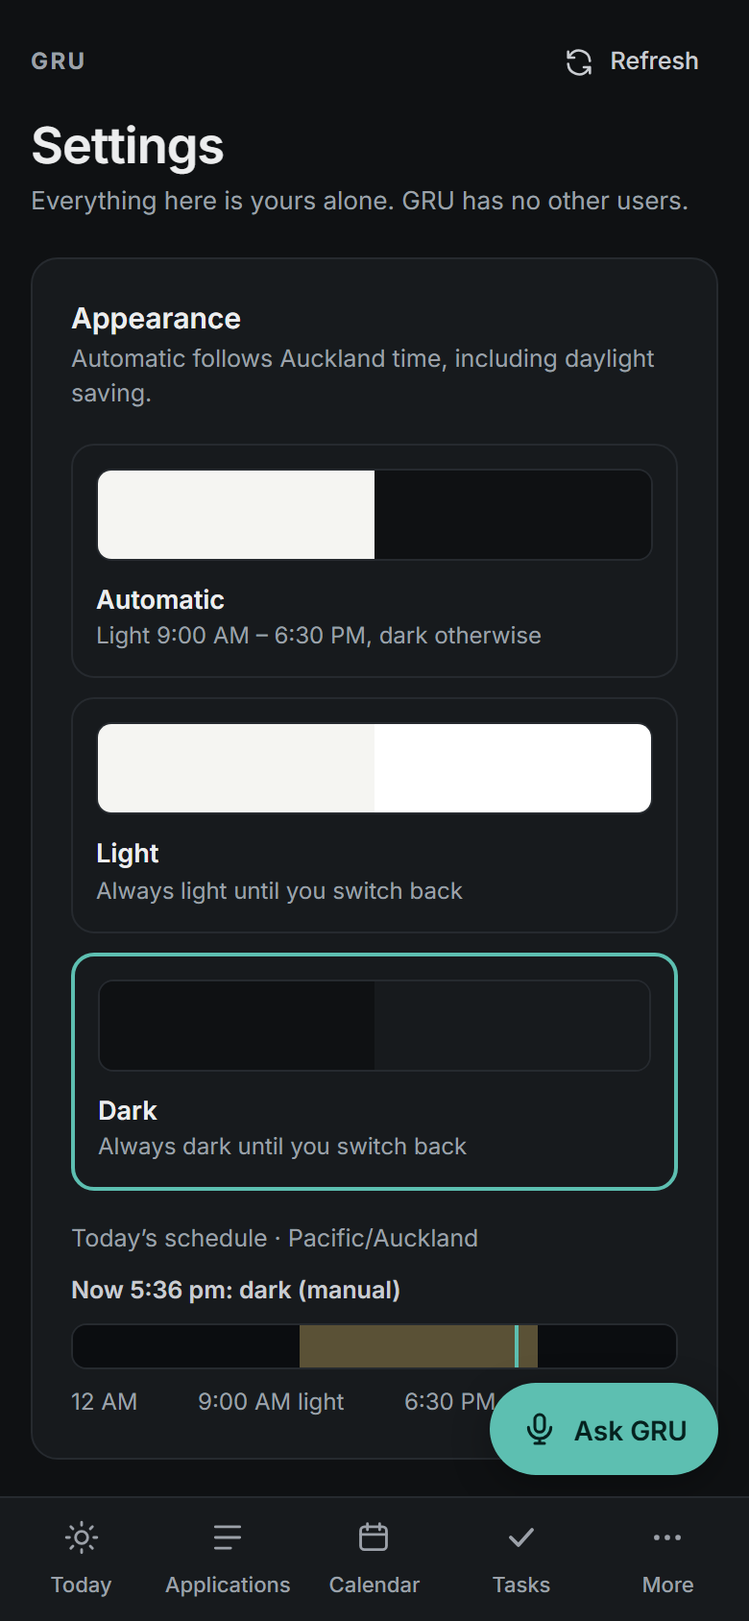
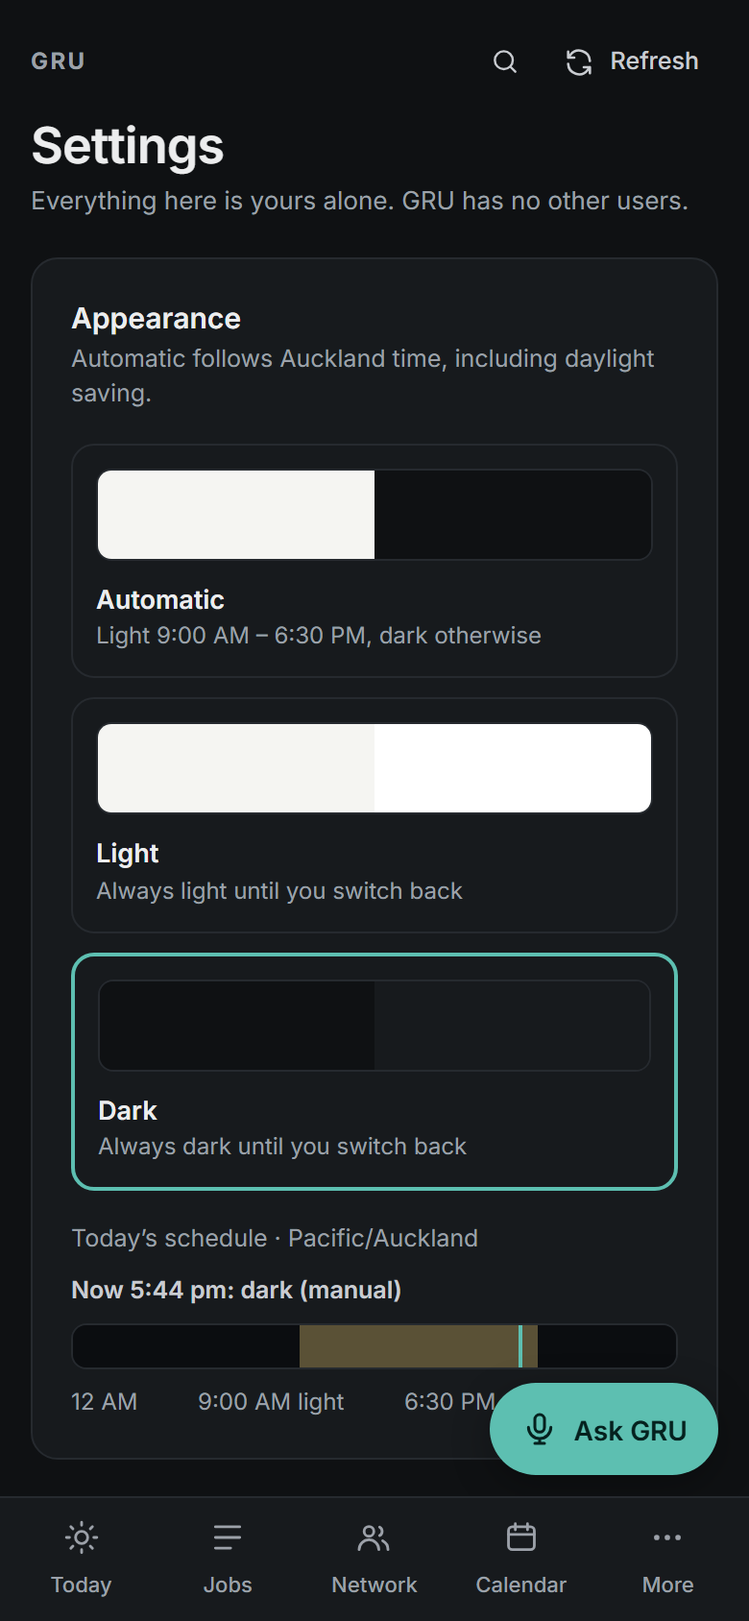
Revamp R5/R6: command palette, onboarding, lazy pages, motion, tailor bullet filter, privacy and plan docs

diff --git a/apps/web/src/components/CommandPalette.tsx b/apps/web/src/components/CommandPalette.tsx
@@ -1,0 +1,85 @@
+// Command palette (Ctrl/Cmd+K, or the Search button): jump to any page, job, application or person. Everything is matched on this
+// device from data already fetched; nothing is sent anywhere except the normal GRU API calls.
+import { useQuery } from "@tanstack/react-query";
+import { useEffect, useMemo, useRef, useState } from "react";
+import { useNavigate } from "react-router";
+import { api } from "../lib/api.ts";
+import { SearchIcon } from "./Icons.tsx";
+import { cx } from "./ui.tsx";
+
+interface Hit { key: string; label: string; hint: string; to: string }
+
+const PAGES: Hit[] = [
+  { key: "p-today", label: "Today", hint: "Page", to: "/" },
+  { key: "p-apply", label: "Apply today", hint: "Page", to: "/applications" },
+  { key: "p-other", label: "Other jobs", hint: "Page", to: "/applications?tab=other" },
+  { key: "p-track", label: "My applications", hint: "Page", to: "/applications?tab=tracked" },
+  { key: "p-board", label: "Pipeline board", hint: "Page", to: "/applications?tab=board" },
+  { key: "p-net", label: "Network", hint: "Page", to: "/network" },
+  { key: "p-ins", label: "Insights", hint: "Page", to: "/insights" },
+  { key: "p-inbox", label: "Inbox", hint: "Page", to: "/inbox" },
+  { key: "p-review", label: "Review", hint: "Page", to: "/review" },
+  { key: "p-cal", label: "Calendar", hint: "Page", to: "/calendar" },
+  { key: "p-tasks", label: "Tasks", hint: "Page", to: "/agenda" },
+  { key: "p-notes", label: "Notes", hint: "Page", to: "/notes" },
+  { key: "p-rec", label: "Recruiters", hint: "Page", to: "/people" },
+  { key: "p-set", label: "Settings", hint: "Page", to: "/settings" },
+];
+
+export function CommandPalette({ open, onClose }: { open: boolean; onClose: () => void }) {
+  const nav = useNavigate();
+  const [text, setText] = useState("");
+  const [active, setActive] = useState(0);
+  const input = useRef<HTMLInputElement>(null);
+  const jobs = useQuery({ queryKey: ["jobs", "all", ""], queryFn: () => api.jobs("all"), enabled: open, staleTime: 60_000 });
+  const people = useQuery({ queryKey: ["net", "people", "all"], queryFn: () => api.netPeople(), enabled: open, staleTime: 60_000 });
+  const apps = useQuery({ queryKey: ["applications", "palette"], queryFn: () => api.listApplications({ status: "all" }), enabled: open, staleTime: 60_000 });
+
+  useEffect(() => { if (open) { setText(""); setActive(0); setTimeout(() => input.current?.focus(), 0); } }, [open]);
+
+  const hits = useMemo<Hit[]>(() => {
+    const q = text.trim().toLowerCase();
+    const all: Hit[] = [
+      ...PAGES,
+      ...(apps.data?.items ?? []).map((a) => ({ key: `a${a.id}`, label: `${a.company}${a.role ? ` · ${a.role}` : ""}`, hint: "Application", to: `/applications/${a.id}?status=all` })),
+      ...(jobs.data?.items ?? []).map((j) => ({ key: `j${j.id}`, label: `${j.title}${j.company ? ` · ${j.company}` : ""}`, hint: "Job", to: `/jobs/${j.id}` })),
+      ...(people.data?.items ?? []).map((p) => ({ key: `n${p.id}`, label: `${p.name}${p.company ? ` · ${p.company}` : ""}`, hint: "Person", to: `/network?person=${p.id}` })),
+    ];
+    if (!q) return PAGES;
+    const words = q.split(/\s+/);
+    return all.filter((h) => words.every((w) => h.label.toLowerCase().includes(w))).slice(0, 12);
+  }, [text, apps.data, jobs.data, people.data]);
+
+  useEffect(() => { setActive(0); }, [text]);
+  if (!open) return null;
+  const go = (h: Hit | undefined) => { if (h) { onClose(); nav(h.to); } };
+
+  return (
+    <div className="fixed inset-0 z-[60] flex items-start justify-center bg-[var(--scrim)] px-4 pt-[12dvh]" onMouseDown={(e) => { if (e.target === e.currentTarget) onClose(); }}>
+      <div role="dialog" aria-modal="true" aria-label="Search GRU" className="w-full max-w-lg overflow-hidden rounded-2xl border border-line bg-surface shadow-[0_20px_50px_rgba(0,0,0,.25)]"
+        onKeyDown={(e) => {
+          if (e.key === "Escape") onClose();
+          else if (e.key === "ArrowDown") { e.preventDefault(); setActive((i) => Math.min(hits.length - 1, i + 1)); }
+          else if (e.key === "ArrowUp") { e.preventDefault(); setActive((i) => Math.max(0, i - 1)); }
+          else if (e.key === "Enter") go(hits[active]);
+        }}>
+        <label className="relative block border-b border-line">
+          <span className="sr-only">Search pages, jobs, applications and people</span>
+          <span className="pointer-events-none absolute top-3.5 left-4 text-muted"><SearchIcon size={16} /></span>
+          <input ref={input} value={text} onChange={(e) => setText(e.target.value)} placeholder="Search pages, jobs, applications, people" role="combobox" aria-expanded="true" aria-controls="palette-list" aria-activedescendant={hits[active] ? `pal-${hits[active]?.key}` : undefined}
+            className="h-12 w-full bg-transparent pr-4 pl-11 text-[15px] text-ink placeholder:text-muted focus:outline-none" />
+        </label>
+        <ul id="palette-list" role="listbox" className="m-0 max-h-[50dvh] list-none overflow-y-auto p-1.5">
+          {hits.length === 0 ? <li className="px-3 py-4 text-center text-[13px] text-muted">Nothing found</li> : hits.map((h, i) => (
+            <li key={h.key} id={`pal-${h.key}`} role="option" aria-selected={i === active}>
+              <button type="button" tabIndex={-1} onMouseEnter={() => setActive(i)} onClick={() => go(h)} className={cx("flex w-full cursor-pointer items-center justify-between gap-3 rounded-lg px-3 py-2 text-left text-[14px]", i === active ? "bg-accent-soft text-ink" : "text-ink-2")}>
+                <span className="truncate">{h.label}</span><span className="flex-none text-[11.5px] text-muted">{h.hint}</span>
+              </button>
+            </li>
+          ))}
+        </ul>
+        <p className="m-0 border-t border-line px-4 py-2 text-[11.5px] text-muted">↑ ↓ to move · Enter to open · Esc to close</p>
+      </div>
+    </div>
+  );
+}

diff --git a/apps/web/src/components/AppShell.tsx b/apps/web/src/components/AppShell.tsx
@@ -1,17 +1,18 @@
 // Desktop (≥1024 px): 248 px sidebar. Mobile: bottom tab bar with safe-area padding.
 // Only sections that have shipped appear (Jobs, Interviews, Review, Agenda, Notes join in later phases).
 import { useQuery } from "@tanstack/react-query";
-import type { ReactNode } from "react";
-import { NavLink, Outlet } from "react-router";
+import { useEffect, useState, type ReactNode } from "react";
+import { NavLink, Outlet, useLocation } from "react-router";
 import { api } from "../lib/api.ts";
-import { CalendarIcon, CheckIcon, InboxIcon, ListIcon, MoreIcon, NoteIcon, PeopleIcon, SettingsIcon, SunIcon, WarningIcon } from "./Icons.tsx";
+import { CommandPalette } from "./CommandPalette.tsx";
+import { CalendarIcon, CheckIcon, InboxIcon, ListIcon, MoreIcon, NoteIcon, PeopleIcon, SearchIcon, SettingsIcon, SunIcon, WarningIcon } from "./Icons.tsx";
 import { PullToRefresh, RefreshButton, useRefresh } from "./Refresh.tsx";
 import { VoiceAssistant } from "./VoiceAssistant.tsx";
 import { Banner, cx } from "./ui.tsx";
 
 const NAV = [
   { to: "/", label: "Today", icon: SunIcon, end: true },
-  { to: "/applications", label: "Applications", icon: ListIcon, end: false },
+  { to: "/applications", label: "Jobs", icon: ListIcon, end: false },
   { to: "/calendar", label: "Calendar", icon: CalendarIcon, end: false },
   { to: "/agenda", label: "Tasks", icon: CheckIcon, end: false },
   { to: "/notes", label: "Notes", icon: NoteIcon, end: false },
@@ -22,7 +23,7 @@ const NAV = [
   { to: "/review", label: "Review", icon: WarningIcon, end: false },
 ] as const;
 
-const TABS = (["/", "/applications", "/calendar", "/agenda"] as const).map((to) => NAV.find((n) => n.to === to)!); // Today, Applications, Calendar, Tasks
+const TABS = (["/", "/applications", "/network", "/calendar"] as const).map((to) => NAV.find((n) => n.to === to)!); // Today, Applications, Calendar, Tasks
 
 function SideLink({ to, end, icon: Icon, children }: { to: string; end: boolean; icon: typeof SunIcon; children: ReactNode }) {
   return (
@@ -42,7 +43,7 @@ function SideLink({ to, end, icon: Icon, children }: { to: string; end: boolean;
   );
 }
 
-function Sidebar({ refresh, busy }: { refresh: () => void; busy: boolean }) {
+function Sidebar({ refresh, busy, onSearch }: { refresh: () => void; busy: boolean; onSearch: () => void }) {
   return (
     <nav aria-label="Primary" className="hidden w-[248px] flex-none flex-col gap-5 border-r border-line bg-side px-3.5 py-5 lg:flex">
       <div className="flex items-center gap-2.5 px-2">
@@ -58,6 +59,9 @@ function Sidebar({ refresh, busy }: { refresh: () => void; busy: boolean }) {
         ))}
       </div>
       <div className="mt-auto flex flex-col gap-0.5">
+        <button type="button" onClick={onSearch} className="flex h-9 cursor-pointer items-center gap-2.5 rounded-[9px] px-2.5 text-left font-medium text-ink-2 hover:bg-surface/60 hover:text-ink">
+          <SearchIcon size={17} />Search<kbd className="ml-auto rounded border border-line px-1.5 text-[11px] text-muted">Ctrl K</kbd>
+        </button>
         <RefreshButton onClick={refresh} busy={busy} className="h-9 px-2.5 font-medium text-ink-2 hover:bg-surface/60 hover:text-ink" />
         <SideLink to="/settings" end={false} icon={SettingsIcon}>Settings</SideLink>
       </div>
@@ -95,24 +99,35 @@ function TabBar() {
 export function AppShell() {
   const health = useQuery({ queryKey: ["health"], queryFn: api.health, staleTime: 60_000 });
   const { refresh, busy } = useRefresh();
+  const [searching, setSearching] = useState(false);
+  const section = useLocation().pathname.split("/")[1] ?? "";
+  useEffect(() => {
+    const onKey = (e: KeyboardEvent) => { if ((e.ctrlKey || e.metaKey) && e.key.toLowerCase() === "k") { e.preventDefault(); setSearching((s) => !s); } };
+    window.addEventListener("keydown", onKey);
+    return () => window.removeEventListener("keydown", onKey);
+  }, []);
   return (
     <div className="flex min-h-dvh bg-bg text-ink">
       <a href="#main" className="sr-only focus:not-sr-only focus:fixed focus:top-2 focus:left-2 focus:z-50 focus:rounded-lg focus:bg-surface focus:px-3 focus:py-2">
         Skip to content
       </a>
-      <Sidebar refresh={() => void refresh()} busy={busy} />
+      <Sidebar refresh={() => void refresh()} busy={busy} onSearch={() => setSearching(true)} />
+      <CommandPalette open={searching} onClose={() => setSearching(false)} />
       <VoiceAssistant />
       <PullToRefresh onRefresh={() => void refresh()} busy={busy} />
       <main id="main" className="min-w-0 flex-1 px-4 pt-safe pb-28 sm:px-6 lg:px-9 lg:pt-7 lg:pb-12">
         <div className="mx-auto flex max-w-[1140px] flex-col gap-5">
           <div className="-mb-2 flex items-center justify-between lg:hidden">
             <span className="text-[12px] font-bold tracking-[0.1em] text-muted">GRU</span>
-            <RefreshButton onClick={() => void refresh()} busy={busy} className="h-8 px-2.5 text-[12.5px] font-medium text-ink-2 hover:bg-sunken" />
+            <span className="flex items-center gap-1">
+              <button type="button" aria-label="Search" onClick={() => setSearching(true)} className="grid size-8 cursor-pointer place-items-center rounded-lg text-ink-2 hover:bg-sunken"><SearchIcon size={16} /></button>
+              <RefreshButton onClick={() => void refresh()} busy={busy} className="h-8 px-2.5 text-[12.5px] font-medium text-ink-2 hover:bg-sunken" />
+            </span>
           </div>
           {health.data?.paused && (
             <Banner tone="amber" title="GRU is paused.">Syncing and reminders are stopped. Resume it in Settings.</Banner>
           )}
-          <Outlet />
+          <div key={section} className="page-in flex flex-col gap-5"><Outlet /></div>
         </div>
       </main>
       <TabBar />

diff --git a/apps/web/src/main.tsx b/apps/web/src/main.tsx
@@ -10,17 +10,7 @@ import { ToastProvider } from "./components/Toast.tsx";
 import { ApiError } from "./lib/api.ts";
 import { ApplicationsPage } from "./pages/Applications.tsx";
 import { LockedPage, NotFoundPage } from "./pages/Locked.tsx";
-import { AgendaPage } from "./pages/Agenda.tsx";
-import { InboxPage } from "./pages/Inbox.tsx";
-import { InsightsPage } from "./pages/Insights.tsx";
-import { NetworkPage } from "./pages/Network.tsx";
-import { JobWorkspacePage } from "./pages/JobWorkspace.tsx";
-import { CalendarPage } from "./pages/Calendar.tsx";
 import { MorePage } from "./pages/More.tsx";
-import { NotesPage } from "./pages/Notes.tsx";
-import { PeoplePage } from "./pages/People.tsx";
-import { ReviewPage } from "./pages/Review.tsx";
-import { SettingsPage } from "./pages/Settings.tsx";
 import { TodayPage } from "./pages/Today.tsx";
 
 const queryClient = new QueryClient({
@@ -68,18 +58,18 @@ const router = createBrowserRouter([
       { index: true, element: <TodayPage /> },
       { path: "applications", element: <ApplicationsPage /> },
       { path: "applications/:id", element: <ApplicationsPage /> },
-      { path: "review", element: <ReviewPage /> },
+      { path: "review", lazy: async () => ({ Component: (await import("./pages/Review.tsx")).ReviewPage }) },
       { path: "jobs", element: <JobsRedirect /> },
-      { path: "jobs/:id", element: <JobWorkspacePage /> },
-      { path: "inbox", element: <InboxPage /> },
-      { path: "network", element: <NetworkPage /> },
-      { path: "insights", element: <InsightsPage /> },
-      { path: "agenda", element: <AgendaPage /> },
-      { path: "calendar", element: <CalendarPage /> },
-      { path: "notes", element: <NotesPage /> },
-      { path: "people", element: <PeoplePage /> },
+      { path: "jobs/:id", lazy: async () => ({ Component: (await import("./pages/JobWorkspace.tsx")).JobWorkspacePage }) },
+      { path: "inbox", lazy: async () => ({ Component: (await import("./pages/Inbox.tsx")).InboxPage }) },
+      { path: "network", lazy: async () => ({ Component: (await import("./pages/Network.tsx")).NetworkPage }) },
+      { path: "insights", lazy: async () => ({ Component: (await import("./pages/Insights.tsx")).InsightsPage }) },
+      { path: "agenda", lazy: async () => ({ Component: (await import("./pages/Agenda.tsx")).AgendaPage }) },
+      { path: "calendar", lazy: async () => ({ Component: (await import("./pages/Calendar.tsx")).CalendarPage }) },
+      { path: "notes", lazy: async () => ({ Component: (await import("./pages/Notes.tsx")).NotesPage }) },
+      { path: "people", lazy: async () => ({ Component: (await import("./pages/People.tsx")).PeoplePage }) },
       { path: "more", element: <MorePage /> },
-      { path: "settings", element: <SettingsPage /> },
+      { path: "settings", lazy: async () => ({ Component: (await import("./pages/Settings.tsx")).SettingsPage }) },
       { path: "*", element: <NotFoundPage /> },
     ],
   },

diff --git a/apps/web/src/components/OnboardingCard.tsx b/apps/web/src/components/OnboardingCard.tsx
@@ -1,0 +1,44 @@
+// A short getting-started checklist on Today. Every step is computed from what already exists, so it ticks itself off and goes away.
+import { useQuery } from "@tanstack/react-query";
+import { useState } from "react";
+import { Link } from "react-router";
+import { api } from "../lib/api.ts";
+import { Card, SectionTitle } from "./ui.tsx";
+
+const KEY = "gru.onboarding.dismissed";
+const read = (): boolean => { try { return localStorage.getItem(KEY) === "1"; } catch { return false; } };
+
+export function OnboardingCard() {
+  const [hidden, setHidden] = useState(read);
+  const accounts = useQuery({ queryKey: ["mailAccounts"], queryFn: api.mailAccounts });
+  const resumes = useQuery({ queryKey: ["resumes"], queryFn: api.resumes });
+  const prefs = useQuery({ queryKey: ["prefs"], queryFn: api.prefs });
+  const net = useQuery({ queryKey: ["net", "overview"], queryFn: api.netOverview, staleTime: 60_000 });
+  const summary = useQuery({ queryKey: ["summary"], queryFn: api.summary });
+  if (hidden || [accounts, resumes, prefs, net, summary].some((q) => q.isPending)) return null;
+
+  const steps = [
+    { done: (accounts.data?.accounts ?? []).some((a) => a.status === "active"), text: "Connect Gmail so GRU can read your job emails", to: "/settings" },
+    { done: (resumes.data?.items.length ?? 0) > 0, text: "Add your resume to score jobs and tailor your CV", to: "/settings" },
+    { done: (prefs.data?.roles.length ?? 0) > 0, text: "Save the roles you’re after for one-tap job searches", to: "/settings" },
+    { done: (net.data?.companies.total ?? 0) >= 5, text: "Add 5 companies you’d love to work at", to: "/network" },
+    { done: (net.data?.people.total ?? 0) >= 1, text: "Add one person to learn from and draft a note to them", to: "/network" },
+    { done: Object.values(summary.data?.counts ?? {}).some((n) => (n ?? 0) > 0), text: "Track your first application", to: "/applications?tab=tracked" },
+  ];
+  const left = steps.filter((s) => !s.done);
+  if (left.length === 0) return null;
+  const dismiss = () => { try { localStorage.setItem(KEY, "1"); } catch { /* ignore */ } setHidden(true); };
+  return (
+    <Card>
+      <SectionTitle aside={<button type="button" onClick={dismiss} className="cursor-pointer text-[12.5px] text-muted underline">Dismiss</button>}>Getting started · {steps.length - left.length} of {steps.length}</SectionTitle>
+      <ul className="m-0 flex list-none flex-col gap-1.5 p-0">
+        {steps.map((s) => (
+          <li key={s.text} className="flex items-start gap-2 text-[13.5px]">
+            <span aria-hidden="true" className={s.done ? "text-green" : "text-muted"}>{s.done ? "✓" : "○"}</span>
+            {s.done ? <span className="text-muted line-through">{s.text}</span> : <Link to={s.to}>{s.text}</Link>}
+          </li>
+        ))}
+      </ul>
+    </Card>
+  );
+}

diff --git a/test/e2e/smoke.spec.ts b/test/e2e/smoke.spec.ts
@@ -45,6 +45,12 @@ test("every page renders with data and no browser errors", async ({ page }) => {
   await expect(page.getByRole("heading", { name: "Smoke Test Ltd" })).toBeVisible();
   await expect(page.getByText("Interviews", { exact: true })).toBeVisible();
 
+  // Command palette: Ctrl+K finds a job by name and opens its workspace.
+  await page.keyboard.press("Control+k");
+  await page.getByRole("combobox", { name: /Search pages/ }).fill("graduate backend");
+  await page.getByRole("option", { name: /Graduate Backend Engineer/ }).first().click();
+  await expect(page.getByRole("heading", { name: "Graduate Backend Engineer" })).toBeVisible();
+
   for (const [path, text] of [
     ["/applications", "Apply today"], ["/applications?tab=other", "Other jobs"], ["/jobs", "Other jobs"], ["/agenda", "Agenda"], ["/calendar", "Calendar"], ["/people", "People"], ["/notes", "Notes"], ["/more", "More"], ["/settings", "Settings"], ["/review", "Review"], ["/inbox", "Inbox"], ["/network", "Network"], ["/insights", "Insights"],
   ] as const) {
@@ -79,6 +85,22 @@ test("every page renders with data and no browser errors", async ({ page }) => {
   await expect(page.getByLabel("Assessment column").locator("article", { has: page.locator(`a[href^="/applications/${app.id}?"]`) })).toBeVisible();
   await page.goto("/insights");
   await expect(page.getByText("Application funnel")).toBeVisible();
+
+  // Accessibility basics on every page: every button, link and form field has an accessible name.
+  for (const path of ["/", "/applications", "/network", "/insights", "/inbox", "/calendar", "/settings"]) {
+    await page.goto(path);
+    await page.waitForLoadState("networkidle");
+    const unnamed = await page.evaluate(() => {
+      const bad: string[] = [];
+      for (const el of Array.from(document.querySelectorAll<HTMLElement>("button, a[href], input, select, textarea"))) {
+        if (el instanceof HTMLInputElement && (el.type === "hidden" || el.type === "checkbox" && el.closest("label"))) continue;
+        const name = el.getAttribute("aria-label") || el.getAttribute("aria-labelledby") || (el as HTMLInputElement).labels?.[0]?.textContent || el.textContent || el.getAttribute("title") || el.getAttribute("placeholder");
+        if (!name || !name.trim()) bad.push(`${el.tagName.toLowerCase()}${el.id ? `#${el.id}` : ""}`);
+      }
+      return bad;
+    });
+    expect(unnamed, `${path}: ${unnamed.join(", ")}`).toEqual([]);
+  }
 
   await page.goto("/applications?tab=other");
   await expect(page.getByText("Graduate Backend Engineer").first()).toBeVisible();

diff --git a/apps/web/src/pages/Network.tsx b/apps/web/src/pages/Network.tsx
@@ -1,7 +1,8 @@
 // Network (Revamp 3E): build relationships before you need them. Companies to learn about, people to ask about their work,
 // curiosity-first drafts, follow-up reminders and weekly goals. GRU never contacts anyone: you do, GRU keeps track.
 import { useMutation, useQuery, useQueryClient } from "@tanstack/react-query";
-import { useState } from "react";
+import { useEffect, useState } from "react";
+import { useSearchParams } from "react-router";
 import { Modal } from "../components/Dialog.tsx";
 import { PlusIcon } from "../components/Icons.tsx";
 import { useToast } from "../components/Toast.tsx";
@@ -18,6 +19,11 @@ type Tab = (typeof TABS)[number][0];
 export function NetworkPage() {
   const [tab, setTab] = useState<Tab>("week");
   const [personId, setPersonId] = useState<number | null>(null);
+  const [params, setParams] = useSearchParams();
+  useEffect(() => {
+    const p = Number(params.get("person"));
+    if (p > 0) { setPersonId(p); setTab("people"); const rest = new URLSearchParams(params); rest.delete("person"); setParams(rest, { replace: true }); }
+  }, [params, setParams]);
   return (
     <div className="mx-auto flex w-full max-w-[860px] flex-col gap-4">
       <PageHeader title="Network" subtitle="Most internships come from people, not job boards. Learn about 100 companies, talk to the people doing the work, and ask about their work, never for a job. GRU keeps track; you do the reaching out." />

diff --git a/apps/web/src/lib/tailor.ts b/apps/web/src/lib/tailor.ts
@@ -23,7 +23,11 @@ export interface TailorAnalysis {
 /** Resume lines that read like bullets or accomplishments. */
 export function resumeBullets(resume: string): string[] {
   const lines = resume.split(/\r?\n/).map((l) => l.replace(/^[\s\-*•·▪●–]+/, "").replace(/\s+/g, " ").trim());
-  const bullets = lines.filter((l) => l.length >= 25 && l.length <= 350 && /[a-z]/.test(l) && /\s/.test(l) && !/^(?:email|phone|linkedin|github|www\.)/i.test(l));
+  // Achievements are sentences about what you did: not contact lines, skills lists, education or section headings.
+  const EDU = /\b(?:university|bsc|b\.sc|bachelor|master|diploma|gpa|high school)\b/i;
+  const HEAD = /^(?:email|phone|linkedin|github|www\.|skills?\b|technologies|languages|tools)/i;
+  const notBullet = (l: string): boolean => HEAD.test(l) || EDU.test(l) || ((l.match(/,/g) ?? []).length >= 4 && l.length < 120);
+  const bullets = lines.filter((l) => l.length >= 25 && l.length <= 350 && /[a-z]/.test(l) && /\s/.test(l) && !notBullet(l) && l.split(/\s+/).length >= 5);
   return [...new Set(bullets)];
 }
 

diff --git a/apps/web/src/pages/Today.tsx b/apps/web/src/pages/Today.tsx
@@ -7,6 +7,7 @@ import { BriefCard } from "../components/DailyLoop.tsx";
 import { ListIcon, PlusIcon } from "../components/Icons.tsx";
 import { ThemeToggle } from "../components/ThemeContext.tsx";
 import { NetworkCard } from "../components/NetworkCard.tsx";
+import { OnboardingCard } from "../components/OnboardingCard.tsx";
 import { useToast } from "../components/Toast.tsx";
 import { Button, Card, EmptyState, ErrorState, STATUS_THEME, SectionTitle, SkeletonRows, StatusChip } from "../components/ui.tsx";
 import { api, type Status } from "../lib/api.ts";
@@ -82,6 +83,7 @@ export function TodayPage() {
       ) : (
         <div className="flex flex-wrap items-start gap-5">
           <div className="flex min-w-0 flex-[2_1_520px] flex-col gap-5">
+            <OnboardingCard />
             <BriefCard onAdd={() => setAdding(true)} />
             <NetworkCard />
             <Card>

diff --git a/test/unit/tailor.test.ts b/test/unit/tailor.test.ts
@@ -55,3 +55,10 @@ describe("grounding: no invented claims", () => {
     assert.equal(checkGrounded("Reached 92% accuracy with PyTorch", RESUME).ok, true);
   });
 });
+
+describe("resume bullets", () => {
+  it("ignores skills lists, education lines and headings", () => {
+    const lines = resumeBullets("Skills: Python, TypeScript, SQL, Docker, Git\nBSc Computer Science, University of Auckland\nProjects\n- Built a tool that saved the team five hours every week");
+    assert.deepEqual(lines, ["Built a tool that saved the team five hours every week"]);
+  });
+});

diff --git a/apps/web/src/styles.css b/apps/web/src/styles.css
@@ -203,3 +203,8 @@ html.theme-fade body * {
     transition: none !important;
   }
 }
+
+/* Gentle page entrance; off for people who ask for less motion. */
+@keyframes page-in { from { opacity: 0; transform: translateY(4px); } to { opacity: 1; transform: none; } }
+.page-in { animation: page-in 0.18s ease-out both; }
+@media (prefers-reduced-motion: reduce) { .page-in { animation: none; } }

diff --git a/docs/PRIVACY.md b/docs/PRIVACY.md
@@ -81,3 +81,15 @@ When voice ships (ROADMAP V1), speech is recognised on the device; audio is neve
 | Everything else | Stays in your Cloudflare Worker and D1 database, encrypted as listed above | |
 
 Switch the natural voice to the on-device voice in the assistant's settings to keep spoken text on the phone. Chat and cloud transcription need the AI, but the assistant still works for commands without them.
+
+## 11. The revamp: what is new, and what it keeps (added 2026-11-25, D-065 to D-068)
+
+| New data | Where | Protection and retention |
+|---|---|---|
+| Subject and sender of job mail GRU could not classify | `emails_seen.subject_enc`, `from_enc` | AES-GCM encrypted; deleted the moment you classify or ignore the mail, and in any case after 30 days. Email bodies are still never stored |
+| "Never read this sender" rules | `sender_rules` (domain only) | Plain domain names, no message content. Blocked senders are skipped before anything about a message is stored |
+| Tailored resume rewrites | `job_kits.kit_enc` | Encrypted; per job and resume version; removed by wipe and export. Rewrites are checked against your resume, so they cannot contain claims you did not make |
+| Network: target companies, people (name, role, profile link, how you met), conversation notes | `net_companies`, `net_people`, `net_touches` | Free text encrypted. GRU never reads LinkedIn and never contacts anyone: it opens search links in your browser, and you do the contacting. Included in wipe and export |
+| Talk to GRU conversations | `voice_log` | Not stored by default (the chat is deleted when closed). Stored encrypted for 30 days only if you turn on "Remember conversations" |
+
+What leaves GRU for Workers AI in the new features: your resume's bullets and the job's title and keywords (tailoring); a person's first name, role, company and your top skills (optional message polishing). Both are marked as untrusted data, never retained by Cloudflare for training, and each has a no-AI fallback. Phone alerts for follow-ups say only "a networking follow-up is due".

diff --git a/docs/plans/REVAMP.md b/docs/plans/REVAMP.md
@@ -1,6 +1,6 @@
-# GRU Revamp: a premium personal job-search workspace (plan, awaiting approval)
+# GRU Revamp: a premium personal job-search workspace (approved 2026-11-25; R1 to R5 shipped, see D-065 to D-068)
 
-Written for Ani. Nothing in this plan is built yet. On approval it is built and deployed in the phases at the end.
+Written for Ani. Built and deployed in the phases at the end. Differences from the plan: the Documents page was folded into each job's Tailor tab (copy as notes) rather than a separate page; the navigation keeps Jobs, Board and My applications as tabs inside one Jobs section instead of separate Jobs and Pipeline sections; the AI starter list for companies became a fixed, labelled ideas list so nothing is invented.
 
 ## 1. What you asked for, and where it lands
 
